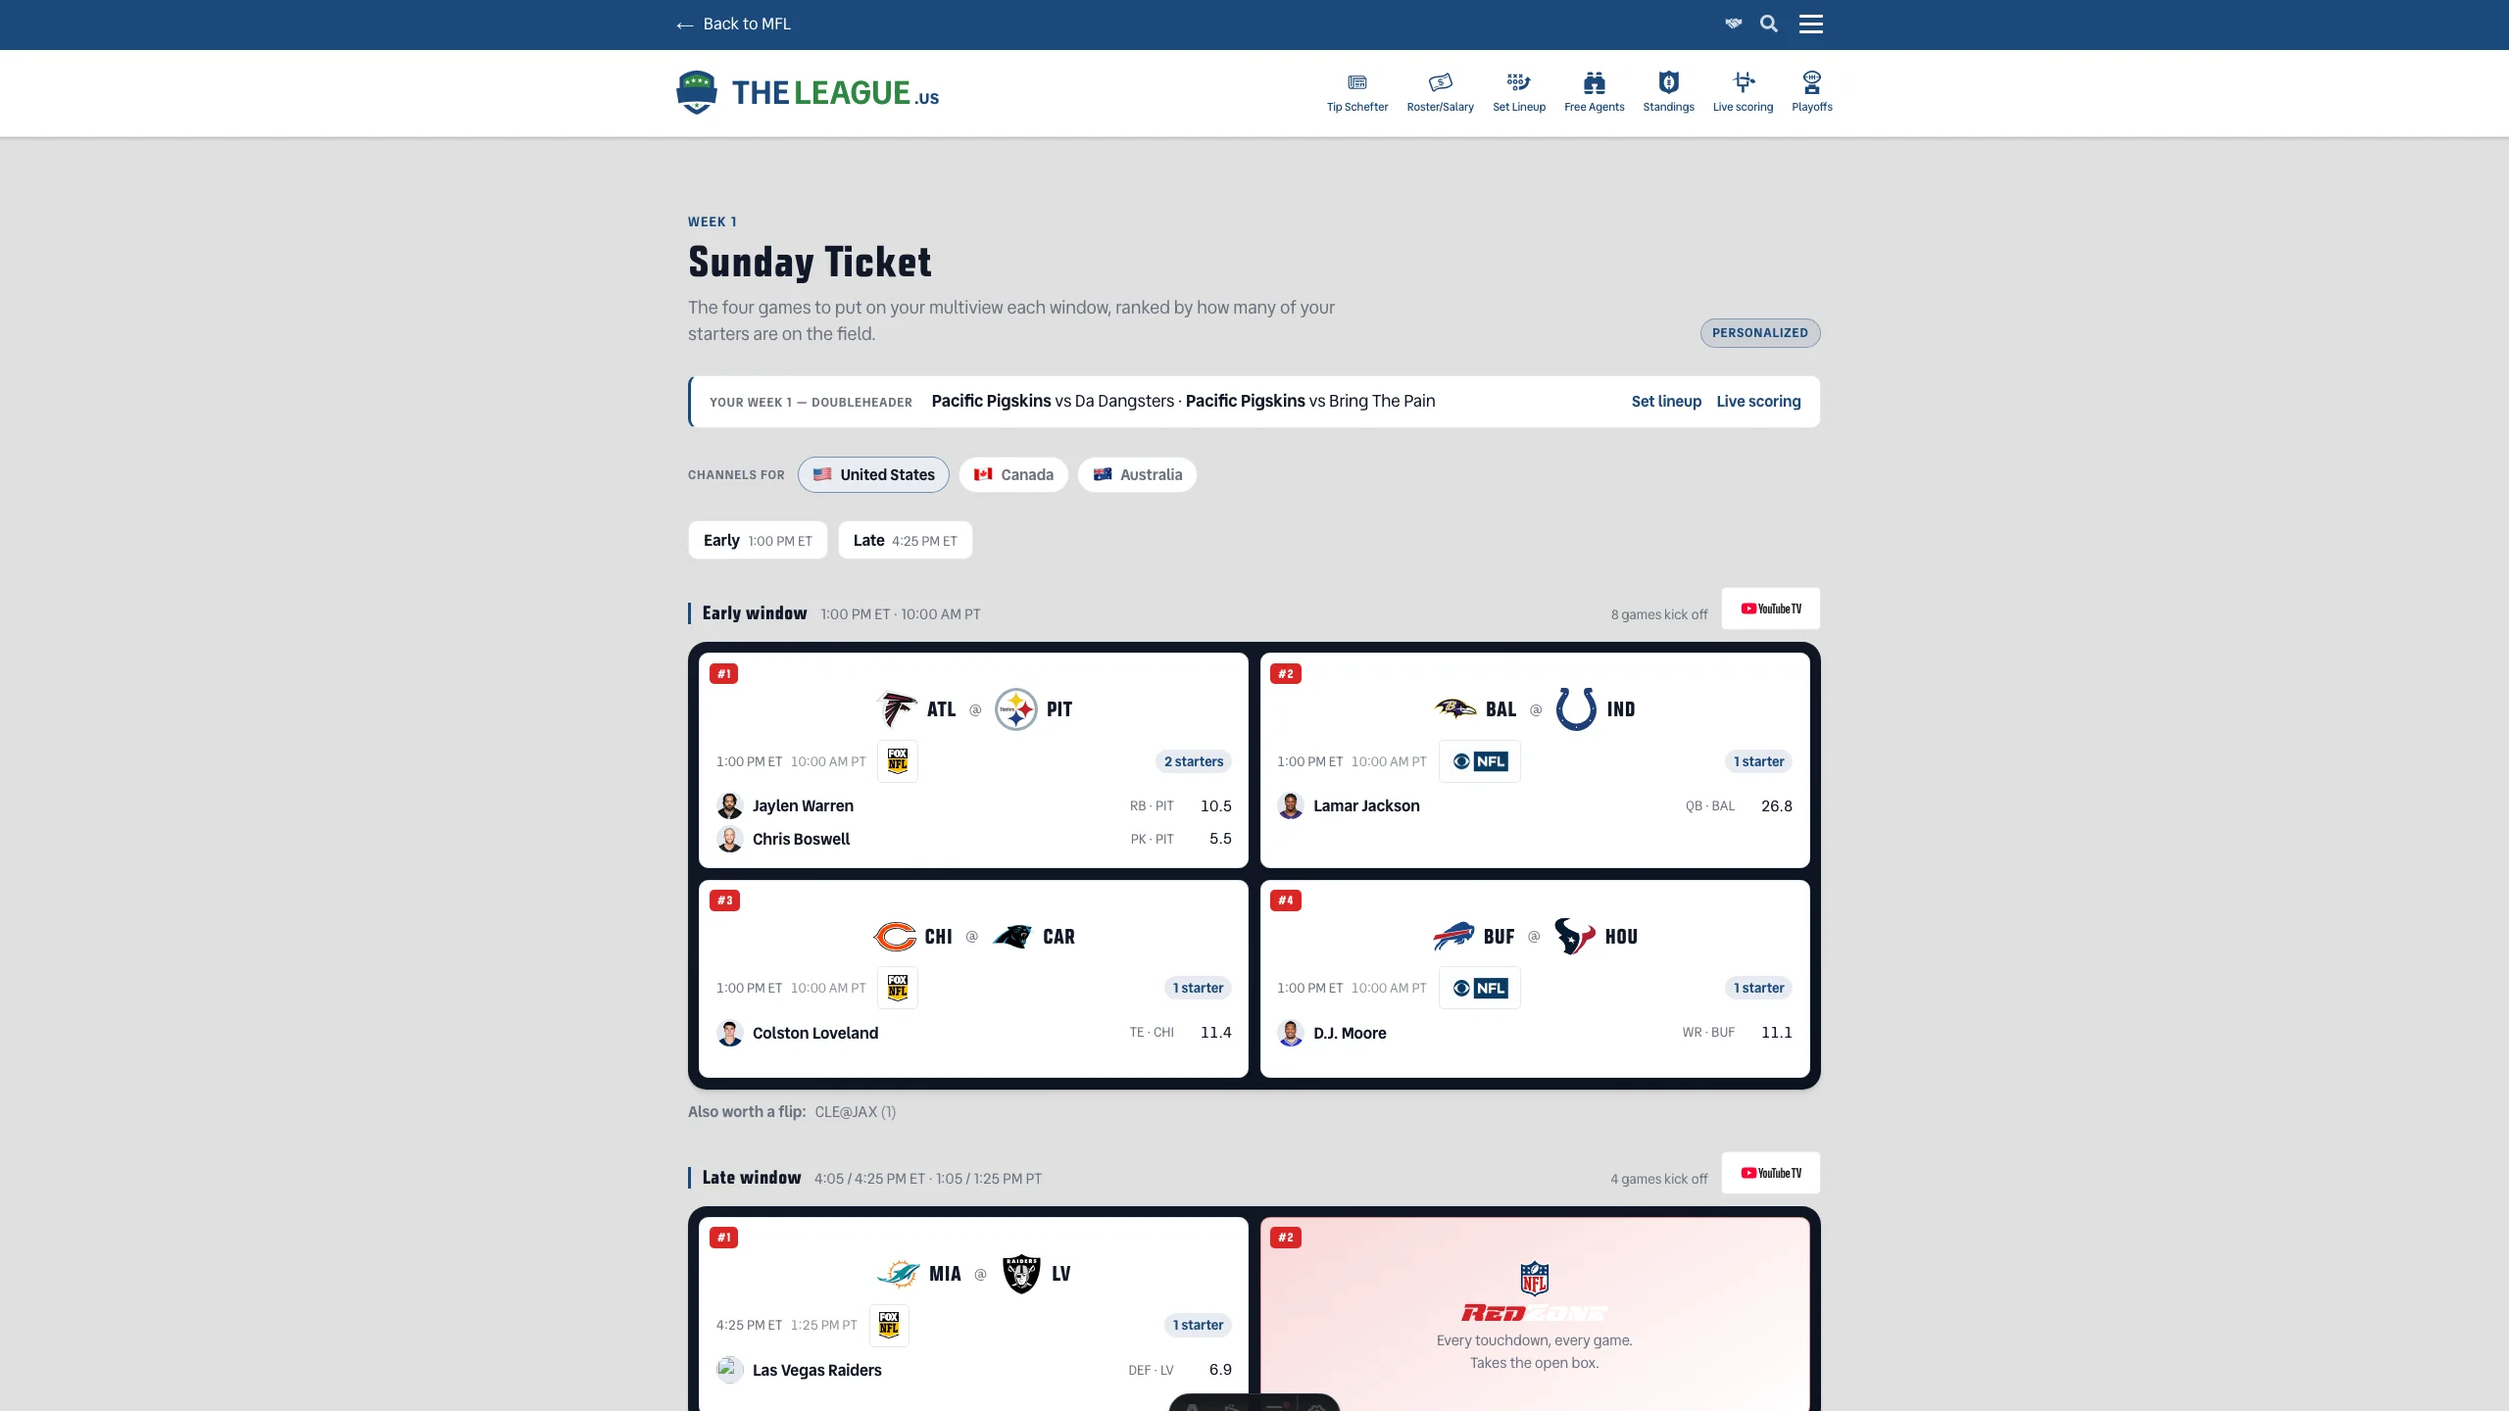
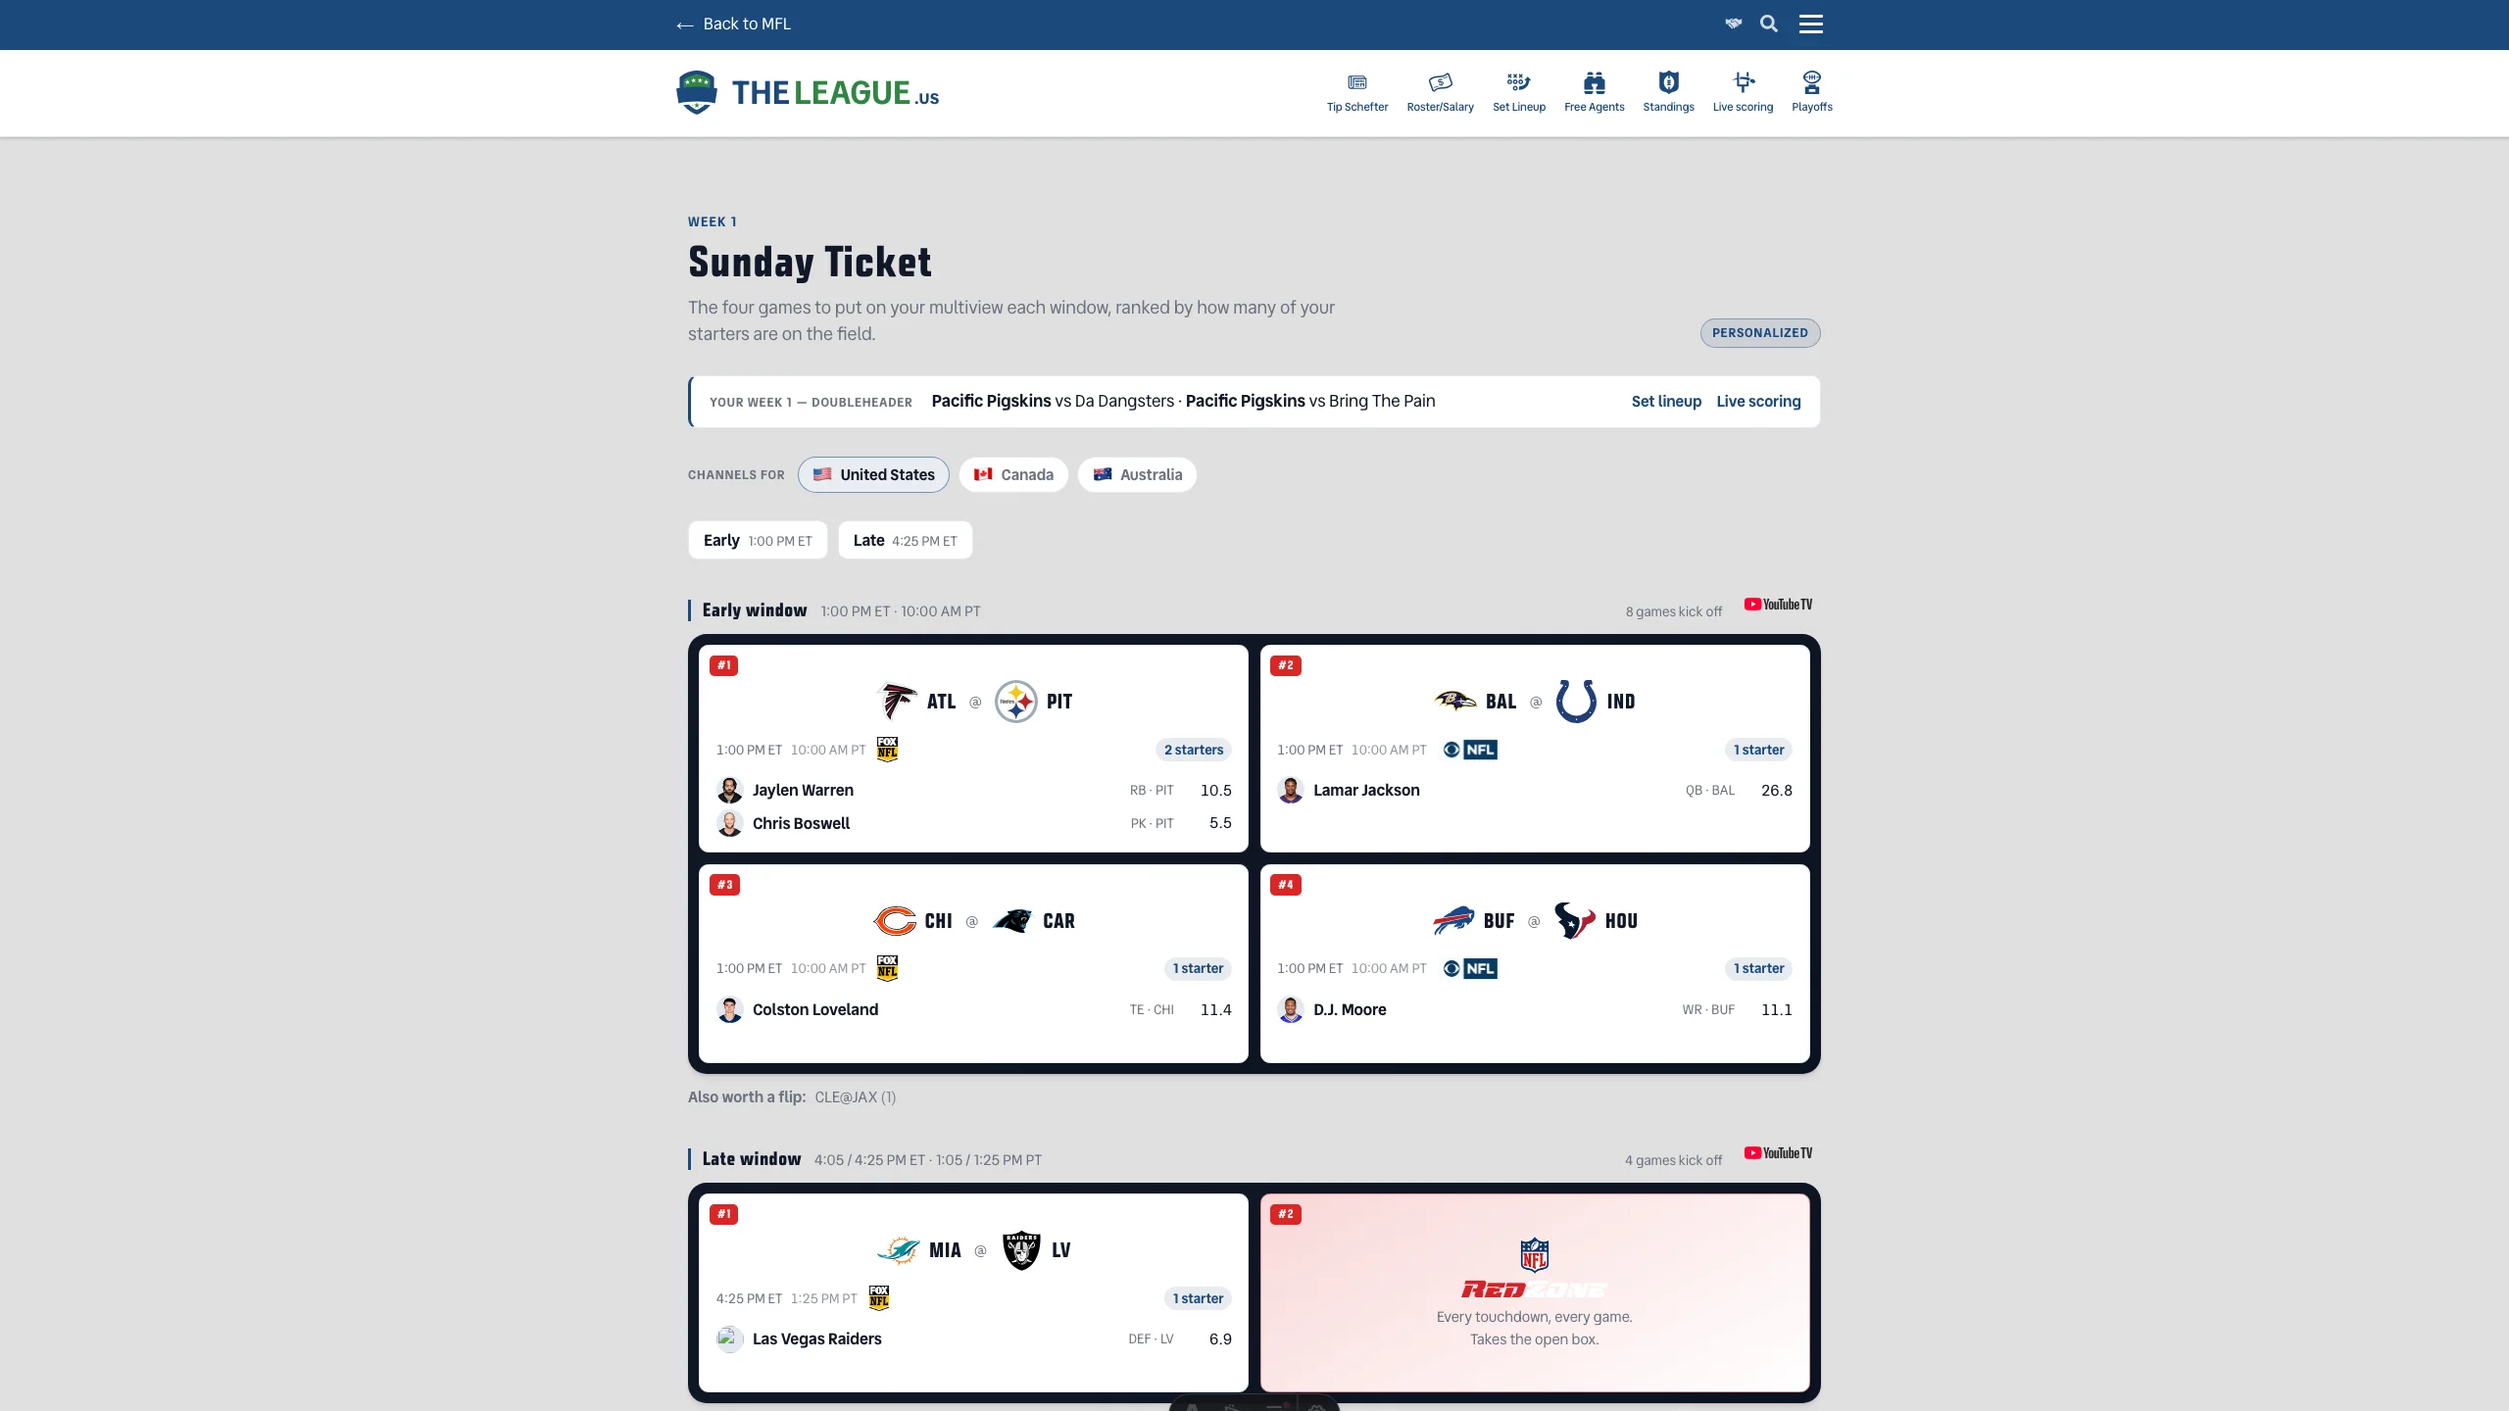
Sunday Ticket: TV marks get the crest dark-mode treatment, not a white pill
The channel and carrier marks now follow the team-crest rules instead of
sitting on a white plate (which draws the mark's bounding box — a white
rectangle on the dark card, the exact thing the crest ring exists to avoid):

- scripts/measure-tv-logo-contrast.mjs (`pnpm measure:tv-logo-contrast`)
  scores every mark broadcast-mappings.json can render, plus the RedZone
  mark, against the dark card with the crest measurer, and writes
  src/data/tv-logo-dark-stroke-manifest.json. Result: ABC strokes; DAZN and
  YouTube TV swap to their white artwork (`logoDark`, the iconDark idea);
  the rest clear the threshold on their own.
- src/utils/tv-logo-dark-css.ts emits the swap and the four-shadow ring by
  exact src under html.dark, composed into buildAllTeamIconDarkCss() so the
  layout head and Storybook inject one stylesheet.
- tests/tv-logo-dark-stroke.test.ts pins the manifest to what the assets
  measure, that a swapped mark is never stroked, and that the dark variants
  exist on disk. Rule recorded in docs/claude/rules/theming-and-assets.md.

diff --git a/tests/tv-logo-dark-stroke.test.ts b/tests/tv-logo-dark-stroke.test.ts
@@ -1,0 +1,63 @@
+import { describe, it, expect } from 'vitest';
+import { existsSync, readFileSync } from 'fs';
+import path from 'path';
+import { buildTvLogoManifest, collectTvLogos, measureAllTvLogos } from '../scripts/measure-tv-logo-contrast.mjs';
+import { STROKE_THRESHOLD } from '../scripts/measure-crest-contrast.mjs';
+import { buildTvLogoDarkCss } from '../src/utils/tv-logo-dark-css';
+import { CREST_STROKE_FILTER } from '../src/utils/crest-dark-stroke-css';
+import { buildAllTeamIconDarkCss } from '../src/utils/team-icon-dark-styles';
+
+const ROOT = path.resolve(__dirname, '..');
+const manifest = JSON.parse(readFileSync(path.join(ROOT, 'src/data/tv-logo-dark-stroke-manifest.json'), 'utf8'));
+const LOGOS = path.join(ROOT, 'public/assets/tv-logos');
+
+describe('tv-logo dark-mode manifest', () => {
+  it('matches what the committed marks actually measure', async () => {
+    // Derived, not hand-curated — swap a mark for a darker one, or add a
+    // logoDark, and this fails until `pnpm measure:tv-logo-contrast` is re-run.
+    const measured = buildTvLogoManifest(await measureAllTvLogos());
+    expect(measured.needsStroke).toEqual(manifest.needsStroke);
+    expect(measured.darkVariants).toEqual(manifest.darkVariants);
+    expect(measured.threshold).toBe(manifest.threshold);
+  }, 60_000);
+
+  it('never strokes a mark that swaps to dark artwork, and every dark variant exists', () => {
+    const swapped = new Set(manifest.darkVariants.map((v: any) => v.file));
+    for (const e of manifest.needsStroke) expect(swapped.has(e.file)).toBe(false);
+    for (const v of manifest.darkVariants) expect(existsSync(path.join(LOGOS, v.dark)), v.dark).toBe(true);
+  });
+
+  it('only lists marks below the threshold', () => {
+    for (const e of manifest.needsStroke) {
+      expect(e.legible).toBeLessThan(STROKE_THRESHOLD);
+      expect(e.legible).toBeGreaterThanOrEqual(0);
+    }
+  });
+
+  it('covers every mark the mapping file can render', () => {
+    const files = collectTvLogos().map((l) => l.file);
+    const known = new Set([...manifest.needsStroke.map((e: any) => e.file), ...manifest.darkVariants.map((v: any) => v.file)]);
+    // Marks that measured fine are absent from both lists by design; what
+    // must hold is that nothing in the manifest points at a mark no longer used.
+    for (const f of known) expect(files).toContain(f);
+  });
+});
+
+describe('buildTvLogoDarkCss', () => {
+  it('swaps dark variants by exact src and strokes the rest with the crest ring, under html.dark only', () => {
+    const css = buildTvLogoDarkCss({
+      needsStroke: [{ file: 'cbs-nfl-us.png', legible: 0.1 }, { file: 'abc.png', legible: 0.2 }],
+      darkVariants: [{ file: 'dazn-ca-black.png', dark: 'dazn-ca.png' }],
+    });
+    expect(css).toContain('html.dark img[src="/assets/tv-logos/dazn-ca-black.png"] { content: url("/assets/tv-logos/dazn-ca.png"); }');
+    expect(css).toContain('html.dark img[src="/assets/tv-logos/cbs-nfl-us.png"]');
+    expect(css).toContain('html.dark img[src="/assets/tv-logos/abc.png"]');
+    expect(css).toContain(`filter: ${CREST_STROKE_FILTER}`);
+    expect(css).not.toMatch(/^img\[/m);
+  });
+
+  it('is empty with nothing to do, and is part of the ONE composed dark stylesheet', () => {
+    expect(buildTvLogoDarkCss({ needsStroke: [], darkVariants: [] })).toBe('');
+    expect(buildAllTeamIconDarkCss()).toContain('/* tv-logo dark:');
+  });
+});

diff --git a/src/styles/sunday-ticket.css b/src/styles/sunday-ticket.css
@@ -193,14 +193,9 @@
 .st-window__label { font-size: 0.78rem; color: var(--content-text-muted); }
 .st-window__sched { margin-left: auto; font-size: 0.72rem; color: var(--content-text-muted); }
 /* The country's Sunday Ticket carrier, on the same white pill as the channel marks. */
-.st-provider {
-  display: inline-flex; align-items: center;
-  height: 1.8rem; padding: 0.2rem 0.6rem;
-  background: #fff; border: 1px solid var(--card-border); border-radius: var(--radius-sm);
-  cursor: help;
-}
-.st-provider__logo { height: 1.15rem; width: auto; max-width: 7rem; object-fit: contain; display: block; }
-.st-provider__name { font-size: 0.72rem; font-weight: var(--font-weight-bold); color: #111827; }
+.st-provider { display: inline-flex; align-items: center; height: 1.8rem; cursor: help; }
+.st-provider__logo { height: 1.3rem; width: auto; max-width: 7.5rem; object-fit: contain; display: block; }
+.st-provider__name { font-size: 0.72rem; font-weight: var(--font-weight-bold); color: var(--page-text); }
 .st-window__overflow { margin: 0; font-size: 0.82rem; color: var(--content-text-muted); }
 .st-window__overflow-label { font-weight: var(--font-weight-bold); margin-right: 0.3rem; }
 .st-window__overflow-count { opacity: 0.8; }
@@ -252,9 +247,9 @@
 .st-box__meta { display: flex; flex-wrap: wrap; align-items: center; gap: 0.35rem 0.6rem; font-size: 0.72rem; min-height: 1.6rem; }
 .st-box__kick { display: inline-flex; gap: 0.4rem; color: var(--content-text-muted); font-variant-numeric: tabular-nums; }
 .st-box__kick-pt { opacity: 0.75; }
-/* The channel: its mark on a white pill (the PNGs are drawn for light
-   surfaces — DAZN's is black — so the pill keeps them legible in dark mode),
-   or its name when the channel has no mark on disk. */
+/* The channel: its mark, or its name when the channel has no mark on disk.
+   Marks sit on the card like the team crests do; in dark mode the ones that
+   need it swap to white artwork or take the crest ring (tv-logo-dark-css.ts). */
 .st-net {
   display: inline-flex; align-items: center;
   padding: 0.1rem 0.45rem;
@@ -267,12 +262,7 @@
   text-transform: uppercase;
   cursor: help;
 }
-.st-net--mark {
-  background: #fff;
-  border: 1px solid var(--card-border);
-  padding: 0.15rem 0.5rem;
-  height: 1.9rem;
-}
+.st-net--mark { background: none; padding: 0; height: 1.9rem; }
 .st-net__logo { height: 1.4rem; width: auto; max-width: 6rem; object-fit: contain; display: block; }
 .st-box__count {
   margin-left: auto;

diff --git a/src/utils/tv-logo-dark-css.ts b/src/utils/tv-logo-dark-css.ts
@@ -1,0 +1,50 @@
+/**
+ * Dark-mode treatment for the TV network marks (`public/assets/tv-logos/`).
+ *
+ * The same two moves the team crests get, in the same order of preference:
+ *
+ *  1. SWAP — a mark with a `logoDark` in broadcast-mappings.json (DAZN's and
+ *     YouTube TV's white artwork) swaps to it under `html.dark`, exactly as
+ *     `team-icon-dark-css.ts` swaps an `iconDark`.
+ *  2. STROKE — a mark with no dark variant that `scripts/measure-tv-logo-contrast.mjs`
+ *     scored below the legibility threshold gets the crest ring
+ *     (`crestStrokeFilter`: four cardinal drop-shadows following the alpha
+ *     silhouette), so a black wordmark still reads on the dark card.
+ *
+ * Keyed on the exact `src`, so it reaches every place a mark renders — the
+ * multiview boxes, the window headers, the national-games row — with no
+ * markup. Composed into `buildAllTeamIconDarkCss()` so the layout head and
+ * Storybook's preview inject it from ONE source and cannot drift.
+ *
+ * Why not the white pill the board first shipped with: a plate draws the
+ * mark's bounding box, which is a white rectangle on a dark card — the exact
+ * thing crest-dark-stroke-css.ts explains the ring exists to avoid.
+ */
+
+import manifest from '../data/tv-logo-dark-stroke-manifest.json';
+import { crestStrokeFilter } from './crest-dark-stroke-css';
+
+export const TV_LOGO_DIR = '/assets/tv-logos';
+
+interface TvLogoManifest {
+  needsStroke: Array<{ file: string; legible: number }>;
+  darkVariants: Array<{ file: string; dark: string }>;
+}
+
+function cssStringEscape(value: string): string {
+  return value.replace(/\\/g, '\\\\').replace(/"/g, '\\"');
+}
+
+const srcOf = (file: string) => `${TV_LOGO_DIR}/${file}`;
+
+export function buildTvLogoDarkCss(data: TvLogoManifest = manifest as TvLogoManifest): string {
+  const rules: string[] = [];
+  for (const { file, dark } of data.darkVariants) {
+    rules.push(`html.dark img[src="${cssStringEscape(srcOf(file))}"] { content: url("${cssStringEscape(srcOf(dark))}"); }`);
+  }
+  const stroked = data.needsStroke.map((e) => `html.dark img[src="${cssStringEscape(srcOf(e.file))}"]`);
+  if (stroked.length > 0) {
+    rules.push(`${stroked.join(',\n')} { filter: ${crestStrokeFilter()}; }`);
+  }
+  return rules.length > 0 ? `/* tv-logo dark: ${data.darkVariants.length} swap, ${data.needsStroke.length} stroke */\n${rules.join('\n')}` : '';
+}

diff --git a/src/utils/team-icon-dark-styles.ts b/src/utils/team-icon-dark-styles.ts
@@ -32,6 +32,7 @@ import {
   buildEraCrestShapeCss,
   buildEraCrestDarkStrokeCss,
 } from './era-crest-stroke-css';
+import { buildTvLogoDarkCss } from './tv-logo-dark-css';
 
 const THELEAGUE_ICON_DIR = '/assets/theleague/icons';
 const AFL_ICON_DIR = '/assets/afl/icons';
@@ -68,6 +69,8 @@ export function buildAllTeamIconDarkCss(): string {
     buildEraCrestShapeCss(aflConfig.teams),
     buildEraCrestDarkStrokeCss(theleagueConfig.teams),
     buildEraCrestDarkStrokeCss(aflConfig.teams),
+    // TV network marks (Sunday Ticket board): same swap-else-stroke treatment.
+    buildTvLogoDarkCss(),
   ]
     .filter(Boolean)
     .join('\n');

diff --git a/docs/claude/rules/theming-and-assets.md b/docs/claude/rules/theming-and-assets.md
@@ -488,3 +488,25 @@ Do NOT swap it for greps: every one of these bugs is invisible in the source
 text (7 of its 10 cases pass a source-level reading of the old file and fail
 on its behavior).
 
+## TV network marks get the crest treatment, from their own manifest
+
+`public/assets/tv-logos/` (the channel and Sunday Ticket carrier marks the
+Sunday Ticket board draws) follows the team-crest rules exactly, through a
+sibling pipeline rather than the crest one:
+
+- `scripts/measure-tv-logo-contrast.mjs` (`pnpm measure:tv-logo-contrast`)
+  scores every mark `data/theleague/broadcast-mappings.json` can render, plus
+  the RedZone mark, against the dark card and writes
+  `src/data/tv-logo-dark-stroke-manifest.json`. `tests/tv-logo-dark-stroke.test.ts`
+  fails when the committed manifest drifts from what the assets measure.
+- A mark with a `logoDark` in the mapping file (white artwork — DAZN's,
+  YouTube TV's) SWAPS under `html.dark` and is never stroked; a mark below the
+  threshold takes the same four-shadow ring as a crest
+  (`src/utils/tv-logo-dark-css.ts`, keyed on exact `src`).
+- It is composed into `buildAllTeamIconDarkCss()`, so the layout head and
+  Storybook's preview inject it from one source.
+
+**Not a white plate.** The board first shipped the marks on a white pill; that
+draws the mark's bounding box, which on a transparent PNG is a white rectangle
+on a dark card — the exact thing the crest ring exists to avoid.
+

diff --git a/docs/plans/sunday-ticket.md b/docs/plans/sunday-ticket.md
@@ -30,9 +30,15 @@ Status: BUILT 2026-09-04 on branch `claude/sunday-ticket-matchup-preview-3025b7`
   `src/utils/broadcast-channels.ts` over `data/theleague/broadcast-mappings.json`
   — CBS/FOX become DAZN in Canada, NBC becomes CTV, everything is Kayo in
   Australia, a global streamer keeps its own mark. Channel and carrier marks
-  come from `public/assets/tv-logos/` on a white pill (the PNGs are drawn for
-  light surfaces), the RedZone box uses the RedZone logo, and each window
-  header carries the country's Sunday Ticket carrier (YouTube TV, DAZN, Kayo).
+  come from `public/assets/tv-logos/` and get the TEAM-CREST dark-mode
+  treatment rather than a white pill: `scripts/measure-tv-logo-contrast.mjs`
+  scores each mark on the dark card and writes
+  `src/data/tv-logo-dark-stroke-manifest.json`; a mark with a `logoDark` in the
+  mapping file (DAZN, YouTube TV — white artwork) SWAPS under `html.dark`, one
+  below the threshold takes the crest ring (`tv-logo-dark-css.ts`, composed
+  into `buildAllTeamIconDarkCss()` so the layout and Storybook agree). The
+  RedZone box uses the RedZone logo, and each window header carries the
+  country's Sunday Ticket carrier (YouTube TV, DAZN, Kayo).
 - **Cookie writes live in the ROUTES, not the component.** `Astro.cookies.set()`
   from an imported component throws `ResponseSentError` and blanks the page —
   the first country click shipped exactly that. `rememberSundayTicketChoices`
